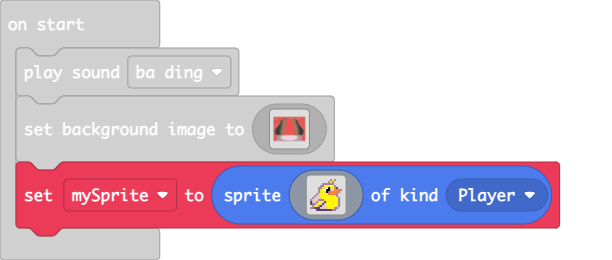
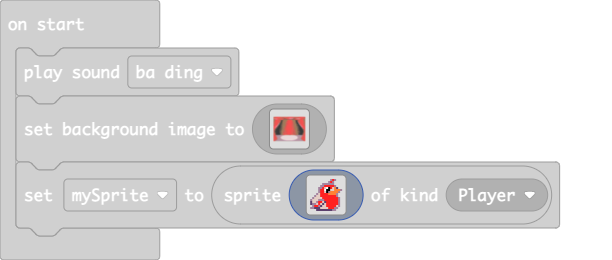
Adjusted sprites

Changed region(s): [[0.0, 0.6154, 0.9314, 0.9231]]

diff --git a/main.ts b/main.ts
@@ -122,20 +122,20 @@ scene.setBackgroundImage(img`
[1 lines of base64/hex data omitted]
     `)
 let mySprite = sprites.create(img`
-    . . . . . . . . . . b 5 b . . . 
-    . . . . . . . . . b 5 b . . . . 
+    . . . . . . . . . . b 2 b . . . 
+    . . . . . . . . . b 2 b . . . . 
     . . . . . . b b b b b b . . . . 
-    . . . . . b b 5 5 5 5 5 b . . . 
-    . . . . b b 5 d 1 f 5 d 4 c . . 
-    . . . . b 5 5 1 f f d d 4 4 4 b 
-    . . . . b 5 5 d f b 4 4 4 4 b . 
-    . . . b d 5 5 5 5 4 4 4 4 b . . 
-    . . b d d 5 5 5 5 5 5 5 5 b . . 
-    . b d d d d 5 5 5 5 5 5 5 5 b . 
-    b d d d b b b 5 5 5 5 5 5 5 b . 
-    c d d b 5 5 d c 5 5 5 5 5 5 b . 
-    c b b d 5 d c d 5 5 5 5 5 5 b . 
-    . b 5 5 b c d d 5 5 5 5 5 d b . 
-    b b c c c d d d d 5 5 5 b b . . 
+    . . . . . b b 2 2 2 2 2 b . . . 
+    . . . . b b 2 d 1 f 2 d 4 c . . 
+    . . . . b 2 2 1 f f d d 4 4 4 b 
+    . . . . b 2 2 d f b 4 4 4 4 b . 
+    . . . b d 2 2 2 2 4 4 4 4 b . . 
+    . . b d d 2 2 2 2 2 2 2 2 b . . 
+    . b d d d d 2 2 2 2 2 2 2 2 b . 
+    b d d d b b b 2 2 2 2 2 2 2 b . 
+    c d d b 2 2 d c 2 2 2 2 2 2 b . 
+    c b b d 2 d c d 2 2 2 2 2 2 b . 
+    . b 2 2 b c d d 2 2 2 2 2 d b . 
+    b b c c c d d d d 2 2 2 b b . . 
     . . . c c c c c c c c b b . . . 
     `, SpriteKind.Player)
